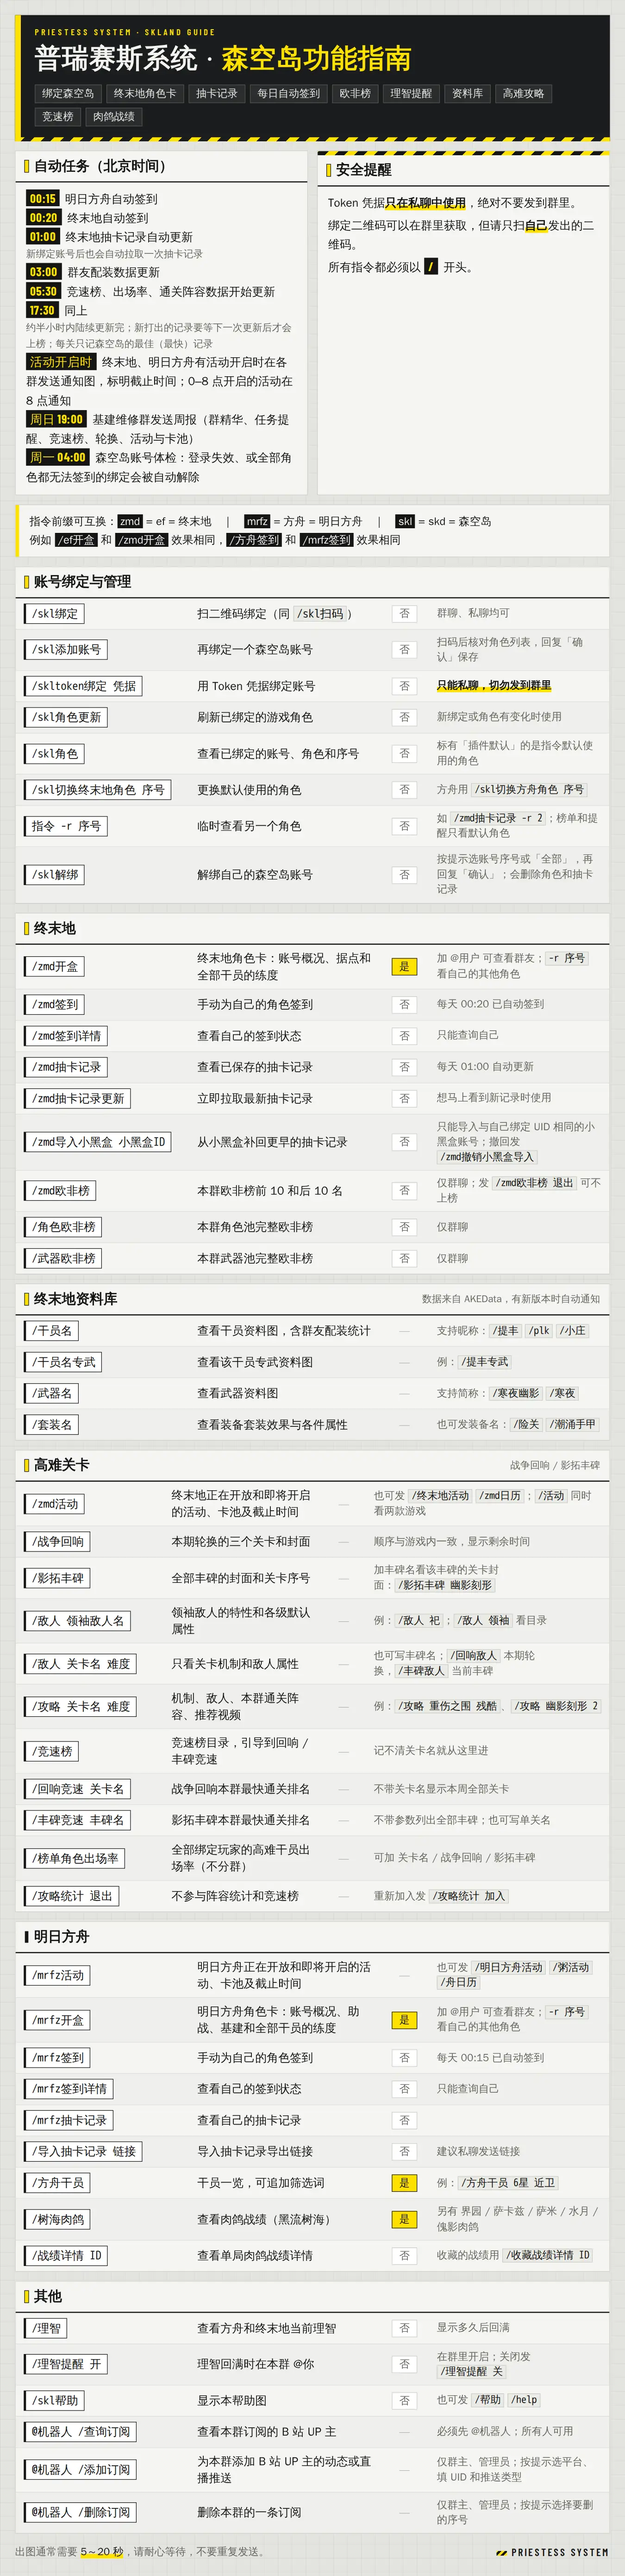
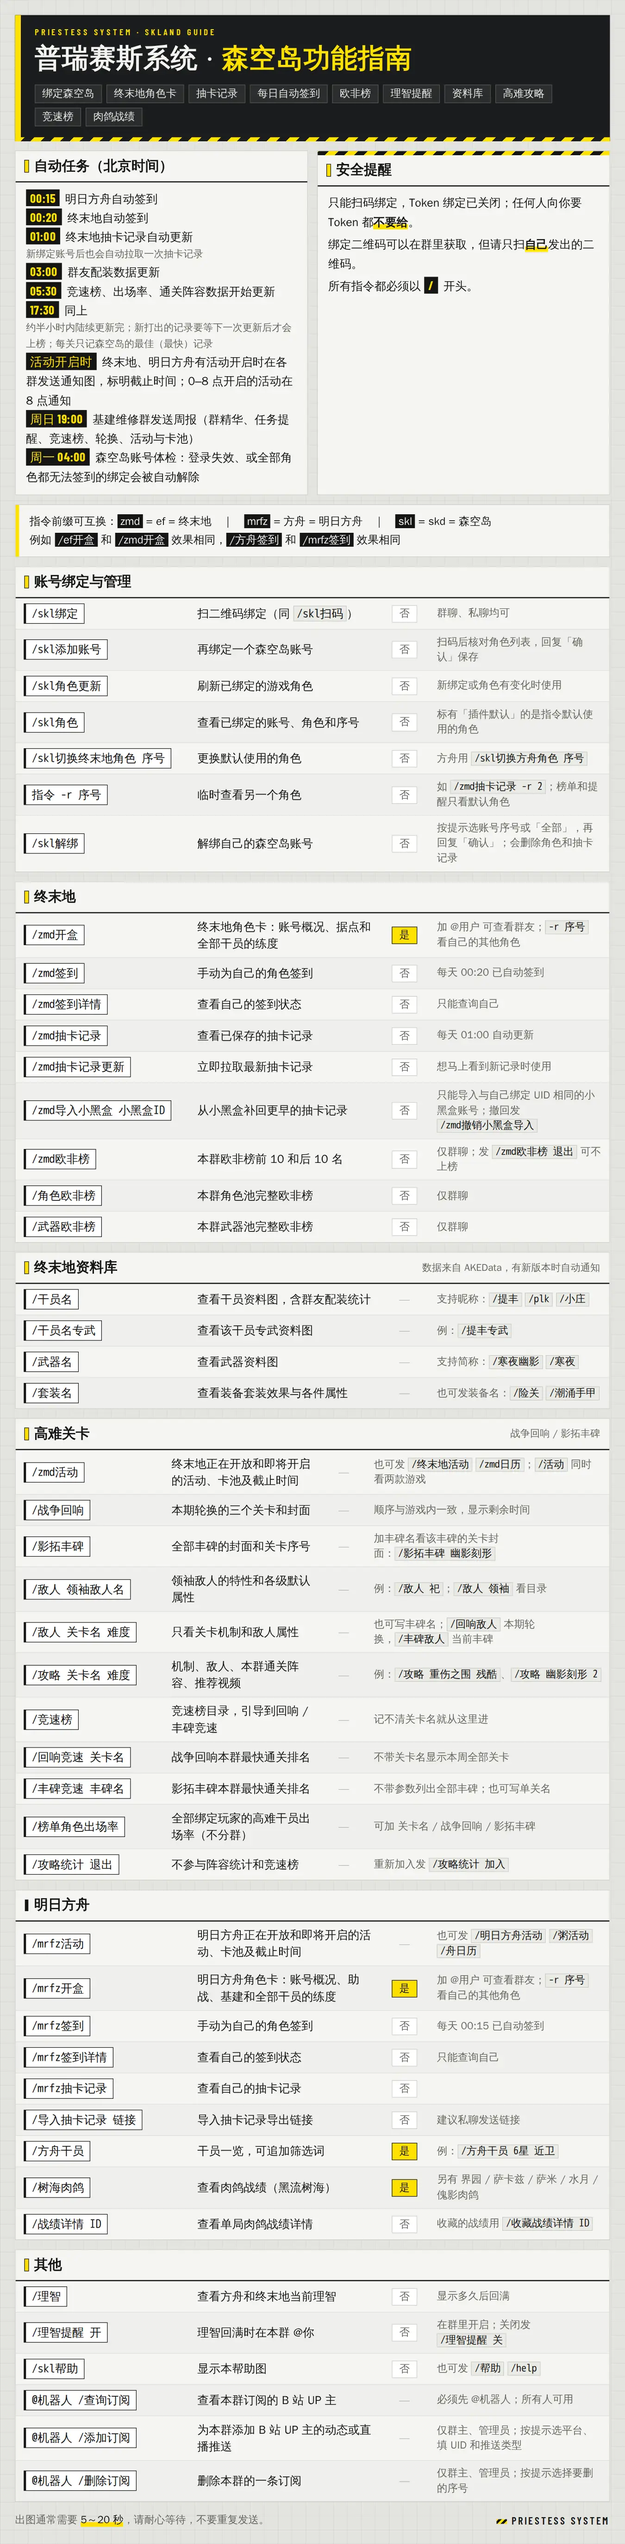
关闭 Token 绑定；日志不再记录聊天内容；依赖安全更新
- /skltoken绑定 与上游 /skland bind 一律回复「已关闭，请扫码绑定」；群里带着凭据发出的消息会被撤回
  （机器人不是管理员时提醒本人撤回）。帮助图与 README 去掉该指令
- 新增 log_privacy：事件日志里的消息正文替换为字数，只保留消息编号、发送者与群号
- pillow 13.0.0；compose 示例为 NapCat 容器日志加上大小上限
- restart_when_idle 能识别只采集干员配装的那一轮已结束，不再一直等待

Changed region(s): [[0.0311, 0.0, 0.9644, 0.9965], [0.3111, 0.0, 0.9644, 0.1246], [0.4978, 0.9343, 0.5289, 0.9654]]

diff --git a/plugins/skl_help/help.html b/plugins/skl_help/help.html
@@ -131,7 +131,7 @@ td.note { color: var(--ef-sub); font-size: 18px; }
     <div class="ef-sec warn">
       <h3>安全提醒</h3>
       <div class="bd">
-      <div>Token 凭据<span class="red">只在私聊中使用</span>，绝对不要发到群里。</div>
+      <div>只能扫码绑定，Token 绑定已关闭；任何人向你要 Token 都<span class="red">不要给</span>。</div>
       <div class="gap">绑定二维码可以在群里获取，但请只扫<span class="red">自己</span>发出的二维码。</div>
       <div class="gap">所有指令都必须以 <span class="time">/</span> 开头。</div>
       </div>
@@ -148,7 +148,6 @@ td.note { color: var(--ef-sub); font-size: 18px; }
     <table>
       <tr><td class="cmd"><code>/skl绑定</code></td><td class="fn">扫二维码绑定（同 <code>/skl扫码</code>）</td><td class="at"><span class="no">否</span></td><td class="note">群聊、私聊均可</td></tr>
       <tr><td class="cmd"><code>/skl添加账号</code></td><td class="fn">再绑定一个森空岛账号</td><td class="at"><span class="no">否</span></td><td class="note">扫码后核对角色列表，回复「确认」保存</td></tr>
-      <tr><td class="cmd"><code>/skltoken绑定 凭据</code></td><td class="fn">用 Token 凭据绑定账号</td><td class="at"><span class="no">否</span></td><td class="note"><span class="red">只能私聊，切勿发到群里</span></td></tr>
       <tr><td class="cmd"><code>/skl角色更新</code></td><td class="fn">刷新已绑定的游戏角色</td><td class="at"><span class="no">否</span></td><td class="note">新绑定或角色有变化时使用</td></tr>
       <tr><td class="cmd"><code>/skl角色</code></td><td class="fn">查看已绑定的账号、角色和序号</td><td class="at"><span class="no">否</span></td><td class="note">标有「插件默认」的是指令默认使用的角色</td></tr>
       <tr><td class="cmd"><code>/skl切换终末地角色 序号</code></td><td class="fn">更换默认使用的角色</td><td class="at"><span class="no">否</span></td><td class="note">方舟用 <code>/skl切换方舟角色 序号</code></td></tr>

diff --git a/plugins/skland_bind_sign/__init__.py b/plugins/skland_bind_sign/__init__.py
@@ -11,6 +11,11 @@ role list on every binding; this project keeps the flow its members know and add
                  -> reply 「确认」 (upstream's confirmation). `skland qrcode --add` underneath.
                  A member with nothing bound yet is pointed to /skl绑定 and gets no QR code.
 
+Binding by token (/skltoken绑定, upstream's `skland bind`) is closed: a token pasted into a chat is a
+full login, and members pasted it into groups. The command only answers with the way to scan; a
+message that carried a token in a group is recalled when the bot is an admin there, otherwise the
+member is asked to recall it.
+
 Rules kept from before, because the QR code is posted in the group and Skland cannot tell who
 scanned it:
   - a Skland account belongs to one QQ only;
@@ -33,11 +38,12 @@ import asyncio
 import contextlib
 import functools
 import json
+import re
 import time
 from collections import Counter
 from contextvars import ContextVar
 
-from nonebot import get_bots, get_driver, logger, require
+from nonebot import get_bots, get_driver, logger, on_message, require
 from nonebot.adapters.onebot.v11 import Bot, GroupMessageEvent, MessageEvent, MessageSegment
 from nonebot.exception import IgnoredException, MockApiException
 from nonebot.matcher import Matcher, current_event, current_matcher
@@ -245,6 +251,9 @@ OTHER_ACCOUNT = "扫码的森空岛账号和你已绑定的不是同一个，绑
 NO_ROLES = "这个森空岛账号下没有可绑定的明日方舟或终末地角色，没有保存"
 CHANGED = "绑定数据在这期间发生了变化，没有保存，请重新发送指令"
 IDENTITY_FAILED = "现有账号的身份校验失败，请先发送 /skl角色更新，或用 /skl解绑 移除异常的账号"
+TOKEN_CLOSED = "Token 绑定已关闭，请发送 /skl绑定 扫码绑定"
+TOKEN_RECALLED = "刚才那条带凭据的消息已撤回"
+TOKEN_RECALL_YOURSELF = "请马上撤回刚才那条消息：凭据等同于账号登录，被别人拿到就能登录你的森空岛"
 
 
 async def _gacha_login_expired(user: SkUser) -> bool:
@@ -314,6 +323,50 @@ async def _no_qrcode_when_bound(matcher: Matcher, bot: Bot, event: MessageEvent,
         return
     await bot.send(event, MessageSegment.at(event.get_user_id()) + " " + ALREADY_BOUND if isinstance(event, GroupMessageEvent) else ALREADY_BOUND)
     raise IgnoredException("already bound to Skland")
+
+
+# Ahead of upstream's matcher (priority 1): `skland bind` without a token would otherwise open
+# Alconna's completion prompt, and the token typed into it would land in the group all the same.
+TOKEN_COMMAND = re.compile(r"^\s*/\s*(?:(?:森空岛|skl|skd)\s*token\s*绑定|(?:skland|sk)\s+bind(?=\s|$))(.*)", re.I | re.S)
+
+
+async def _refuse_token(bot: Bot, event: MessageEvent, carried_token: bool) -> None:
+    if not isinstance(event, GroupMessageEvent):
+        await bot.send(event, TOKEN_CLOSED)
+        return
+    reply = TOKEN_CLOSED
+    if carried_token:
+        try:
+            await bot.delete_msg(message_id=event.message_id)
+            reply += "\n" + TOKEN_RECALLED
+        except Exception:  # not an admin in this group
+            reply += "\n" + TOKEN_RECALL_YOURSELF
+    await bot.send(event, MessageSegment.at(event.get_user_id()) + " " + reply)
+
+
+async def _is_token_command(event: MessageEvent, state: T_State) -> bool:
+    match = TOKEN_COMMAND.match(event.get_plaintext())
+    if match:
+        state["carried_token"] = bool(match.group(1).strip())
+    return bool(match)
+
+
+token_binding = on_message(rule=_is_token_command, priority=0, block=True)
+
+
+@token_binding.handle()
+async def _(bot: Bot, event: MessageEvent, state: T_State) -> None:
+    await _refuse_token(bot, event, state["carried_token"])
+
+
+@run_preprocessor
+async def _no_token_binding(matcher: Matcher, bot: Bot, event: MessageEvent, state: T_State) -> None:
+    """Any other spelling that still reaches upstream's `skland bind` is refused the same way."""
+    arp = _arp(state)
+    if matcher.plugin_name != "nonebot_plugin_skland" or arp is None or not arp.find("bind"):
+        return
+    await _refuse_token(bot, event, bool(arp.all_matched_args) or len(event.get_plaintext().split()) > 1)
+    raise IgnoredException("token binding is closed")
 
 
 # ── saving a binding ────────────────────────────────────────────────────

diff --git a/plugins/log_privacy/__init__.py b/plugins/log_privacy/__init__.py
@@ -1,0 +1,40 @@
+"""Keep chat text out of the log.
+
+NoneBot logs every event it receives, and for a message that line ends with the whole message
+text ("[message.group.normal]: Message 12 from 34@[群:56] '...'"). The journal keeps it for weeks,
+so the log would hold a copy of every group's chat. A loguru patcher replaces the text with its
+length before any handler sees the line; the message, sender and group ids stay for debugging.
+A message event the adapter has no class for is logged as its whole field dump, which carries
+the text too: that line keeps its event name only.
+
+Loaded first, so the patcher is in place before the first event arrives.
+"""
+
+from __future__ import annotations
+
+import re
+
+from nonebot import logger
+from nonebot.plugin import PluginMetadata
+
+__plugin_meta__ = PluginMetadata(
+    name="Log privacy",
+    description="日志里不记录聊天内容，只保留消息编号、发送者与群号。",
+    usage="无指令，自动生效。",
+    type="application",
+)
+
+EVENT = re.compile(r"^(?P<head>.*? \| \[message(?:_sent)?\.[\w.]*\]: )(?P<rest>.*)$", re.S)
+DESCRIBED = re.compile(r"^(?P<who>Message -?\d+ from \S+) (?P<text>.*)$", re.S)
+
+
+def _hide_text(record) -> None:
+    if (event := EVENT.match(record["message"])) is None:
+        return
+    if described := DESCRIBED.match(event["rest"]):
+        record["message"] = f"{event['head']}{described['who']} <text, {len(described['text'])} chars>"
+    else:
+        record["message"] = f"{event['head']}<fields omitted>"
+
+
+logger.configure(patcher=_hide_text)

diff --git a/deploy/restart_when_idle.py b/deploy/restart_when_idle.py
@@ -19,6 +19,8 @@ SERVICE = "nonebot.service"
 # Alconna commands (all of nonebot-plugin-skland) are announced as "AlconnaMatcherMeta(...)" but finish as "AlconnaMatcher(...)".
 STARTED = re.compile(r"Event will be handled by (\w*Matcher)(?:Meta)?(\(.*?\))\s*$")
 # "running is cancelled": a run preprocessor refused the command (e.g. the binding guard).
+# The progress line is shared by the clears collection and the builds-only one, which end differently.
+COLLECTION_ENDS = ("War Echoes clears collected", "War Echoes collection failed", "Operator builds collected", "Operator builds collection failed")
 FINISHED = re.compile(r"(?:Running )?(\w*Matcher\(.*?\)) (?:running complete|running is cancelled|failed\.?)\s*$")
 
 
@@ -43,7 +45,7 @@ def busy(lines: list[str]) -> list[str]:
                 running[match.group(1)] -= 1
         elif "War Echoes collection progress" in line:
             collecting = True
-        elif "War Echoes clears collected" in line or "War Echoes collection failed" in line:
+        elif any(end in line for end in COLLECTION_ENDS):
             collecting = False
     reasons = [f"{name} x{count}" for name, count in running.items() if count > 0]
     if collecting:

diff --git a/bot.py b/bot.py
@@ -19,6 +19,7 @@ def load_required_plugin(module_name: str) -> None:
         raise RuntimeError(f"Required plugin failed to load: {module_name}")
 
 
+load_required_plugin("plugins.log_privacy")
 load_required_plugin("plugins.sqlite_foreign_keys")
 load_required_plugin("plugins.command_tolerance")
 load_required_plugin("plugins.temp_session_forward")

diff --git a/README.md b/README.md
@@ -35,7 +35,7 @@ A QQ group bot for Arknights: Endfield / Arknights communities, built on NoneBot
 
 ### 账号与签到
 
-- 森空岛账号绑定（扫码或 Token）；一个 QQ 可以绑定多个森空岛账号，随时切换默认角色或临时查看另一个角色
+- 森空岛账号绑定（扫码）；一个 QQ 可以绑定多个森空岛账号，随时切换默认角色或临时查看另一个角色
 - 明日方舟与终末地每日自动签到，覆盖绑定的全部账号和角色；首次绑定当天会立即补签一次
 - 绑定保护：二维码发在群里也只认发指令的本人。已绑定的成员不会再拿到二维码，
   一个森空岛账号只能绑在一个 QQ 上，重新扫码续期必须用原来的账号
@@ -239,7 +239,6 @@ NapCat 以反向 WebSocket 客户端连入。动态推送可另外搭配
 | 指令 | 作用 | 备注 |
 |---|---|---|
 | `/skl绑定` | 扫二维码绑定森空岛（同 `/skl扫码`） | 群聊、私聊均可 |
-| `/skltoken绑定 凭据` | 用 Token 凭据绑定 | 只能私聊 |
 | `/skl添加账号` | 再绑定一个森空岛账号 | 扫码后核对角色列表，回复「确认」保存 |
 | `/skl角色更新` | 刷新已绑定的游戏角色 | |
 | `/skl角色` | 查看已绑定的账号、角色和序号 | 标有「插件默认」的是指令默认使用的角色 |
@@ -370,6 +369,7 @@ plugins/
   skland_pools.py              上游未收录的卡池类型（重构寻访）
   skland_limited.py            限定池的 UP 判定与 UP 平均（抽卡记录和欧非榜共用）
   sqlite_foreign_keys/         为 SQLite 开启外键约束，解绑时角色与抽卡记录随账号一并删除
+  log_privacy/                 日志不记录聊天内容，只保留消息编号、发送者与群号
   skland_shortcuts/            指令别名，上游提示语改写为本机指令名
   skland_reaction_order/       上游指令的「完成」表情改为在回复发出之后再发送
   skland_efgacha_compat/       上游武器池数据兼容
